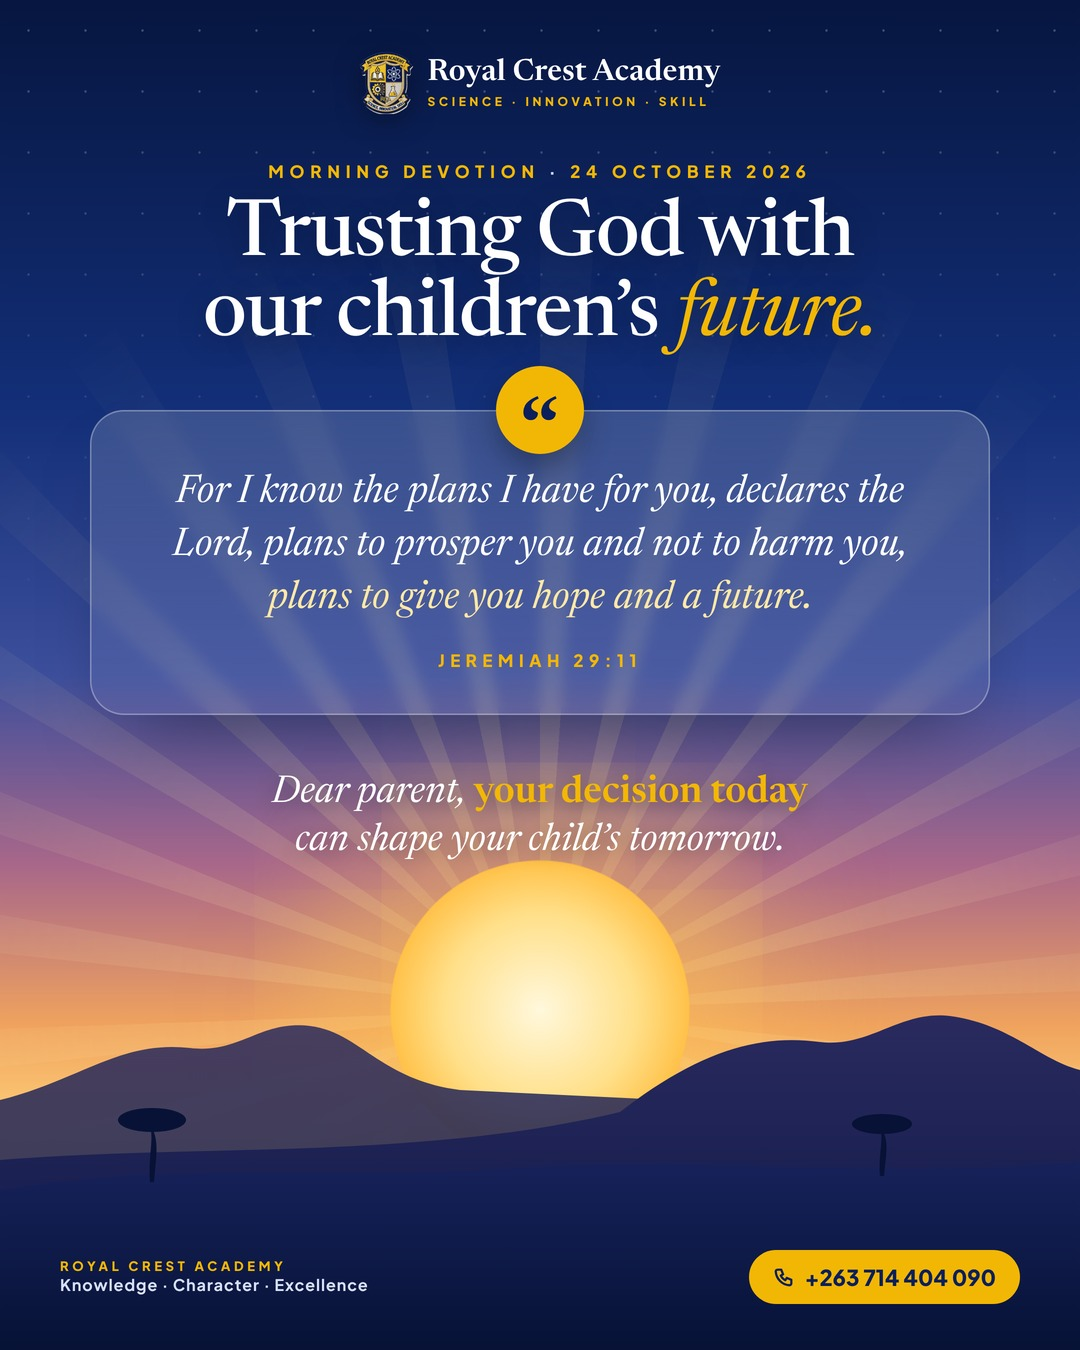
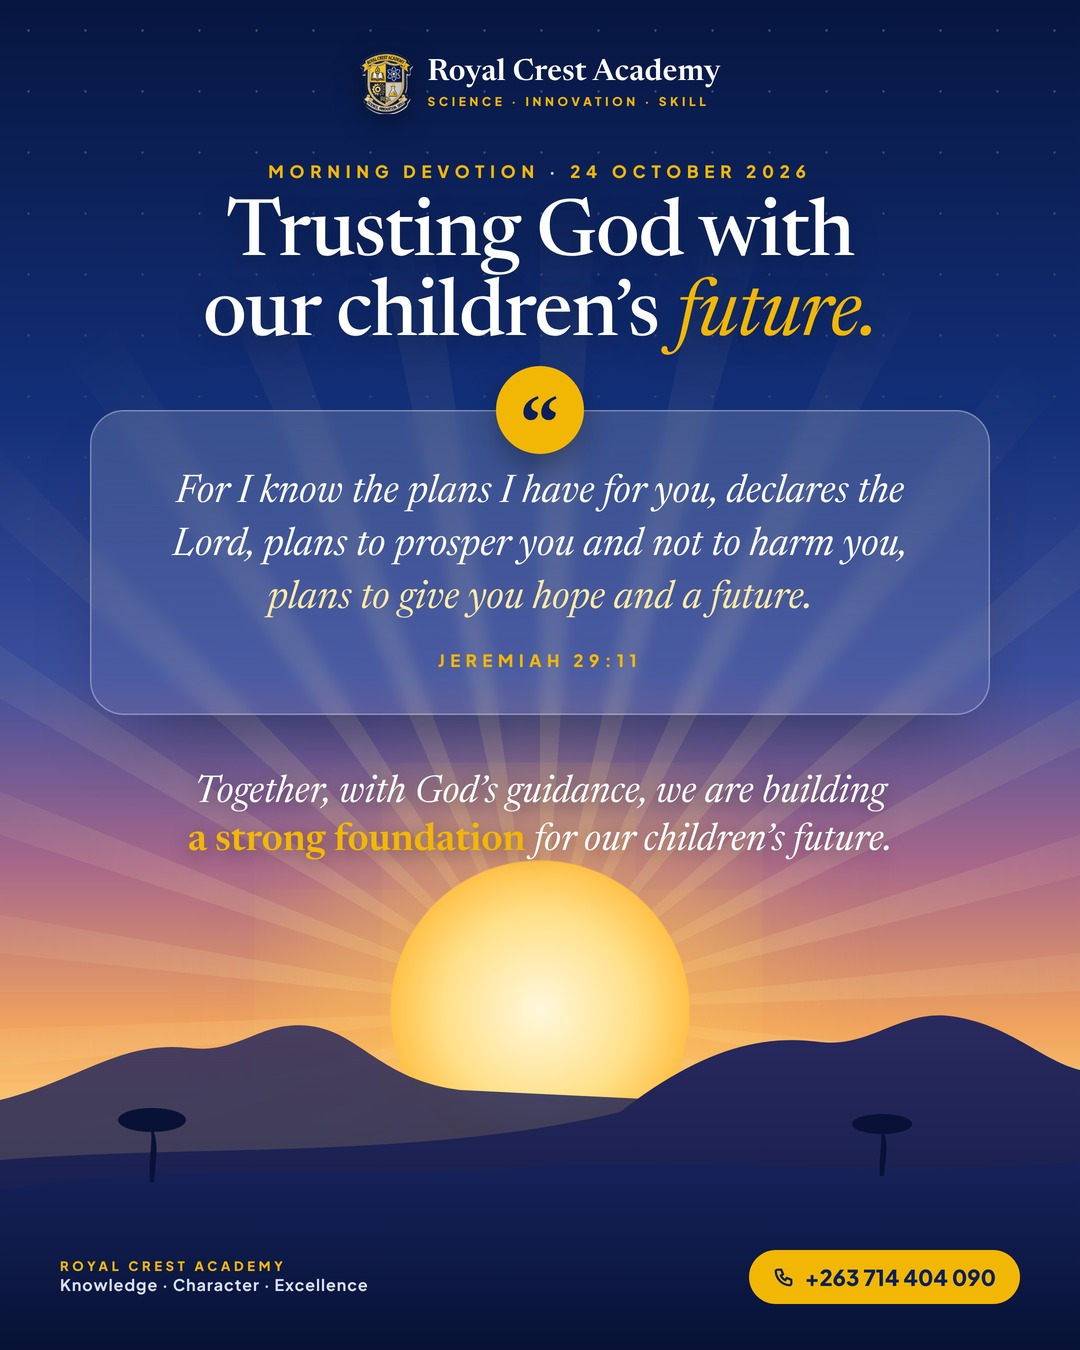
Devotion flyer: use the declaration line
Claude-Session: https://claude.ai/code/session_01HHSSeuzikgdkEiDRBqXNst

Changed region(s): [[0.1833, 0.56, 0.825, 0.6533]]

diff --git a/studio/social-extra/devotion-2026-10-24.html b/studio/social-extra/devotion-2026-10-24.html
@@ -69,7 +69,7 @@ h1 em{font-style:italic;color:var(--gold2)}
   <div id="verse"><div class="q">“</div>
     <p>For I know the plans I have for you, declares the Lord, plans to prosper you and not to harm you, <b>plans to give you hope and a future.</b></p>
     <div class="ref">JEREMIAH 29:11</div></div>
-  <div id="call">Dear parent, <b>your decision today</b><br>can shape your child’s tomorrow.</div>
+  <div id="call">Together, with God’s guidance, we are building<br><b>a strong foundation</b> for our children’s future.</div>
   <div id="foot"><div class="tag"><b>ROYAL CREST ACADEMY</b>Knowledge · Character · Excellence</div>
     <div class="ph"><svg viewBox="0 0 24 24" fill="none" stroke="#0a1f5c" stroke-width="2.4" stroke-linecap="round" stroke-linejoin="round"><path d="M5 4h4l2 5-2.5 1.5a11 11 0 0 0 5 5L15 13l5 2v4a2 2 0 0 1-2 2A16 16 0 0 1 3 6a2 2 0 0 1 2-2"/></svg>+263 714 404 090</div></div>
 </div>
